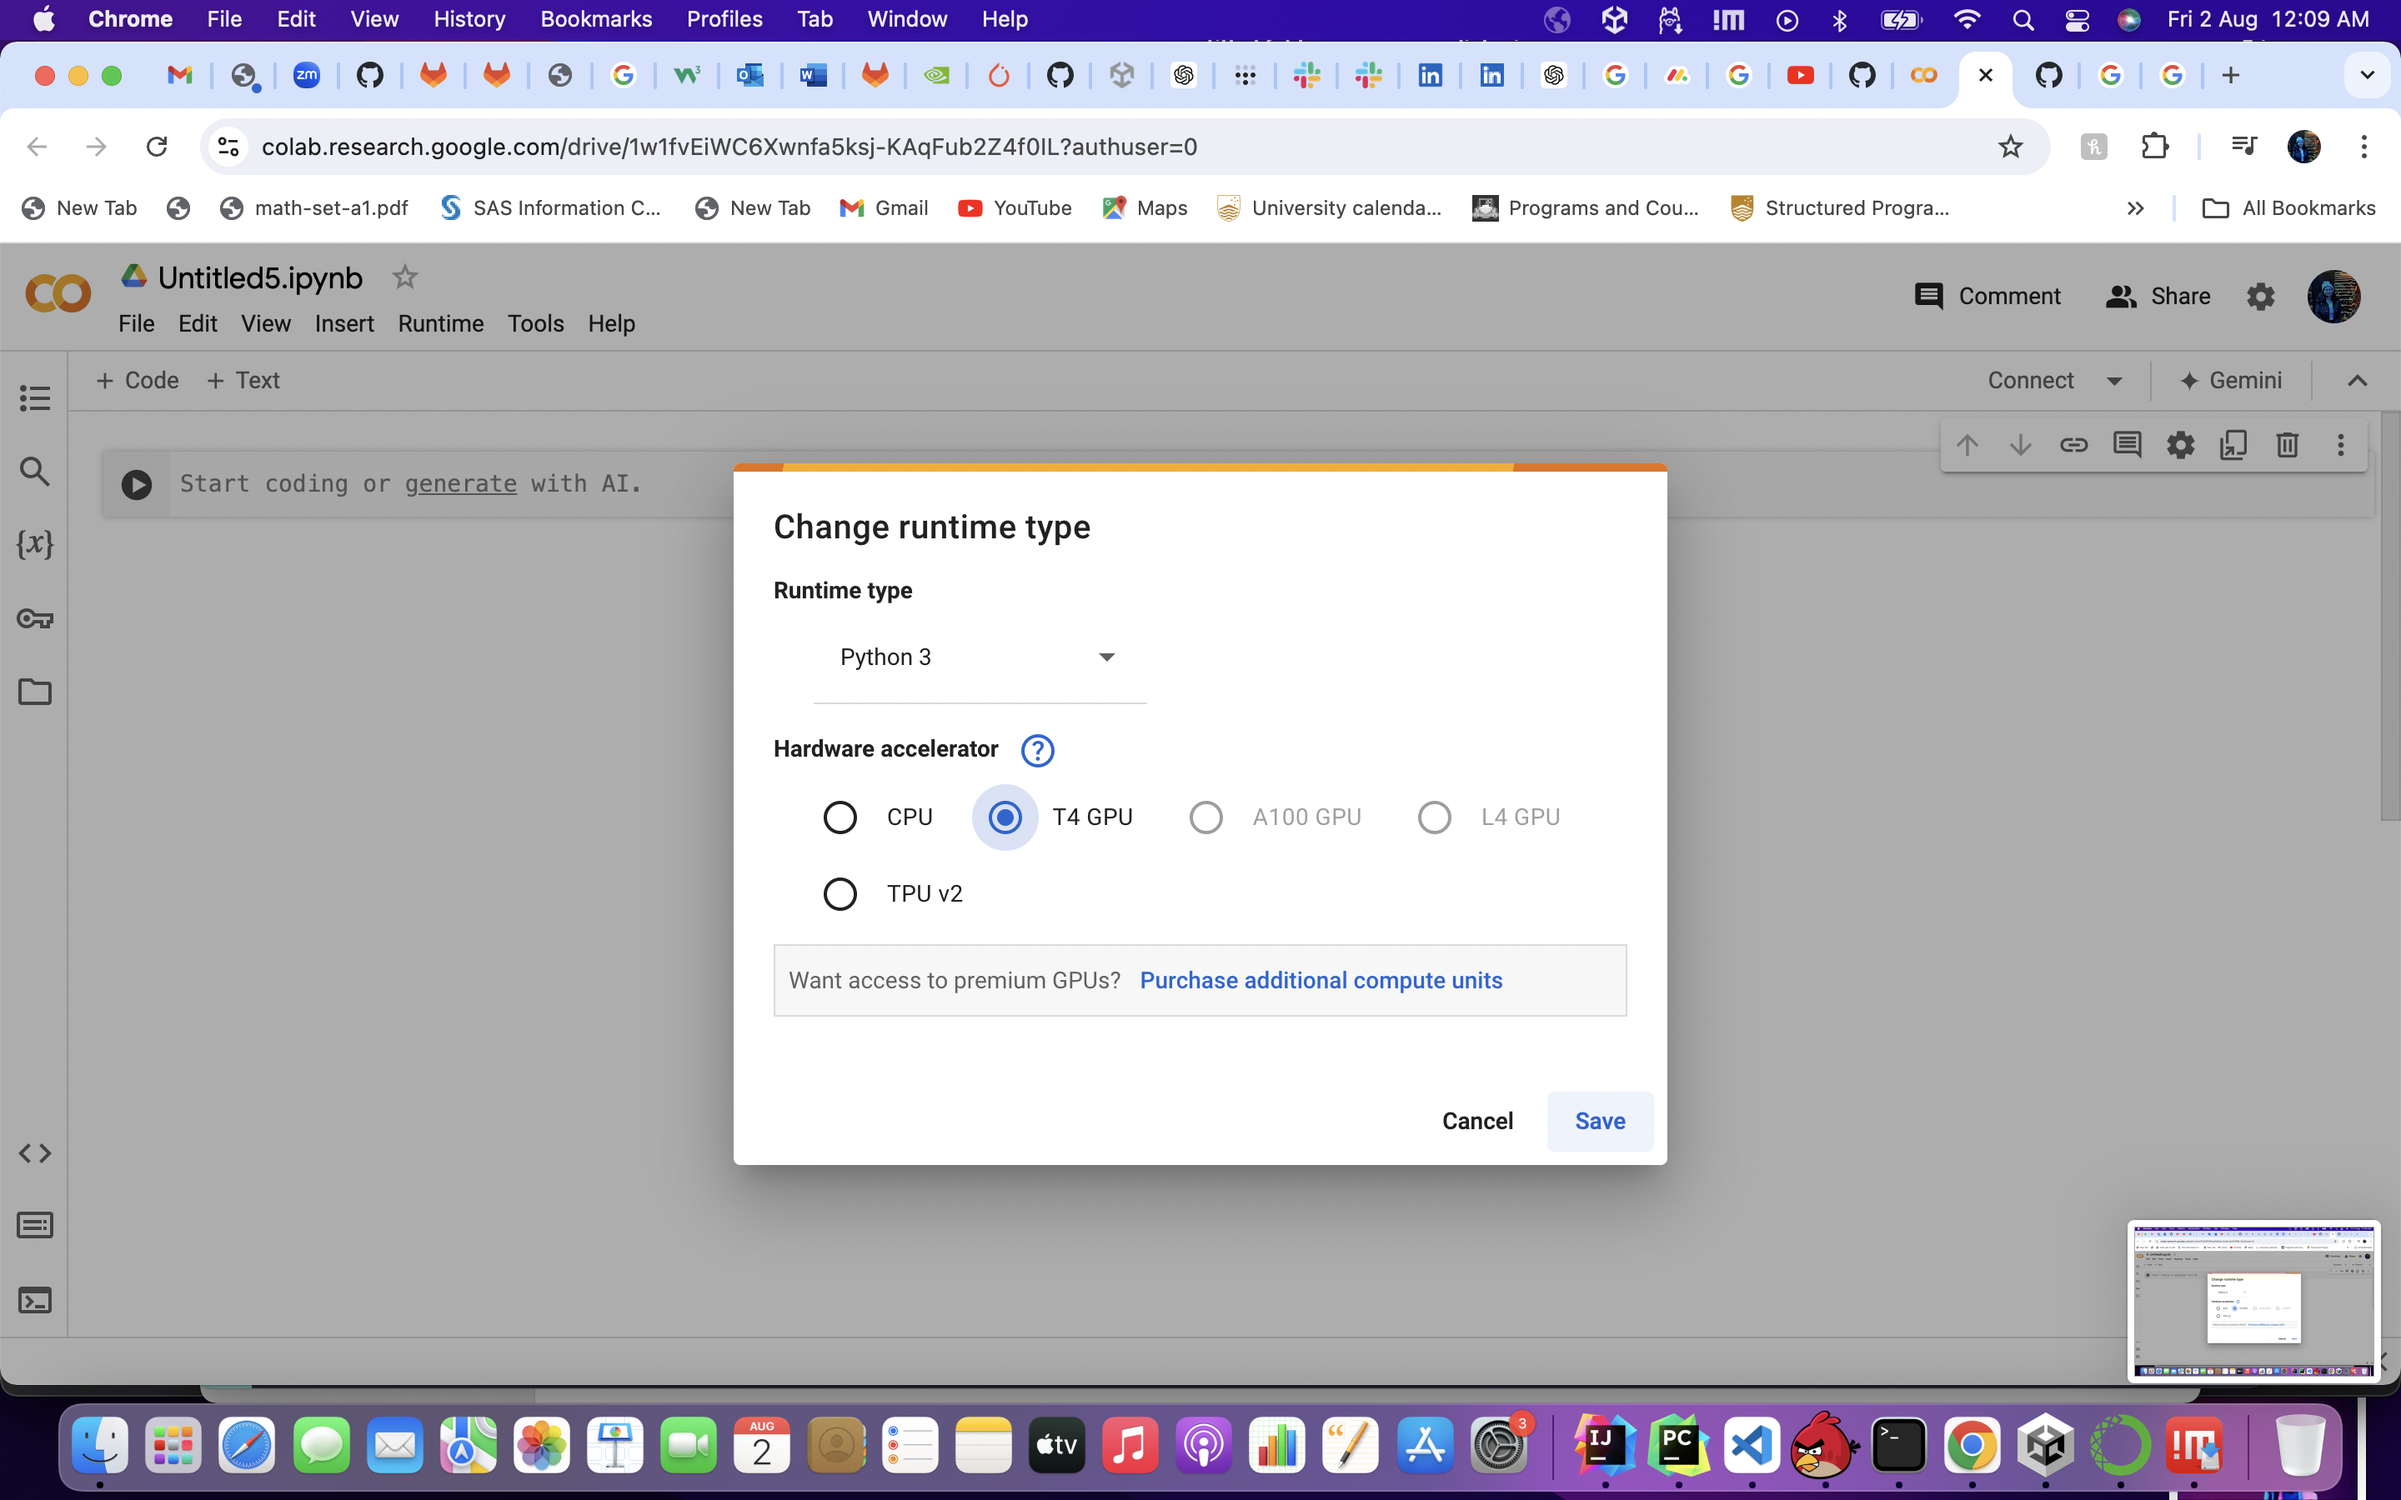
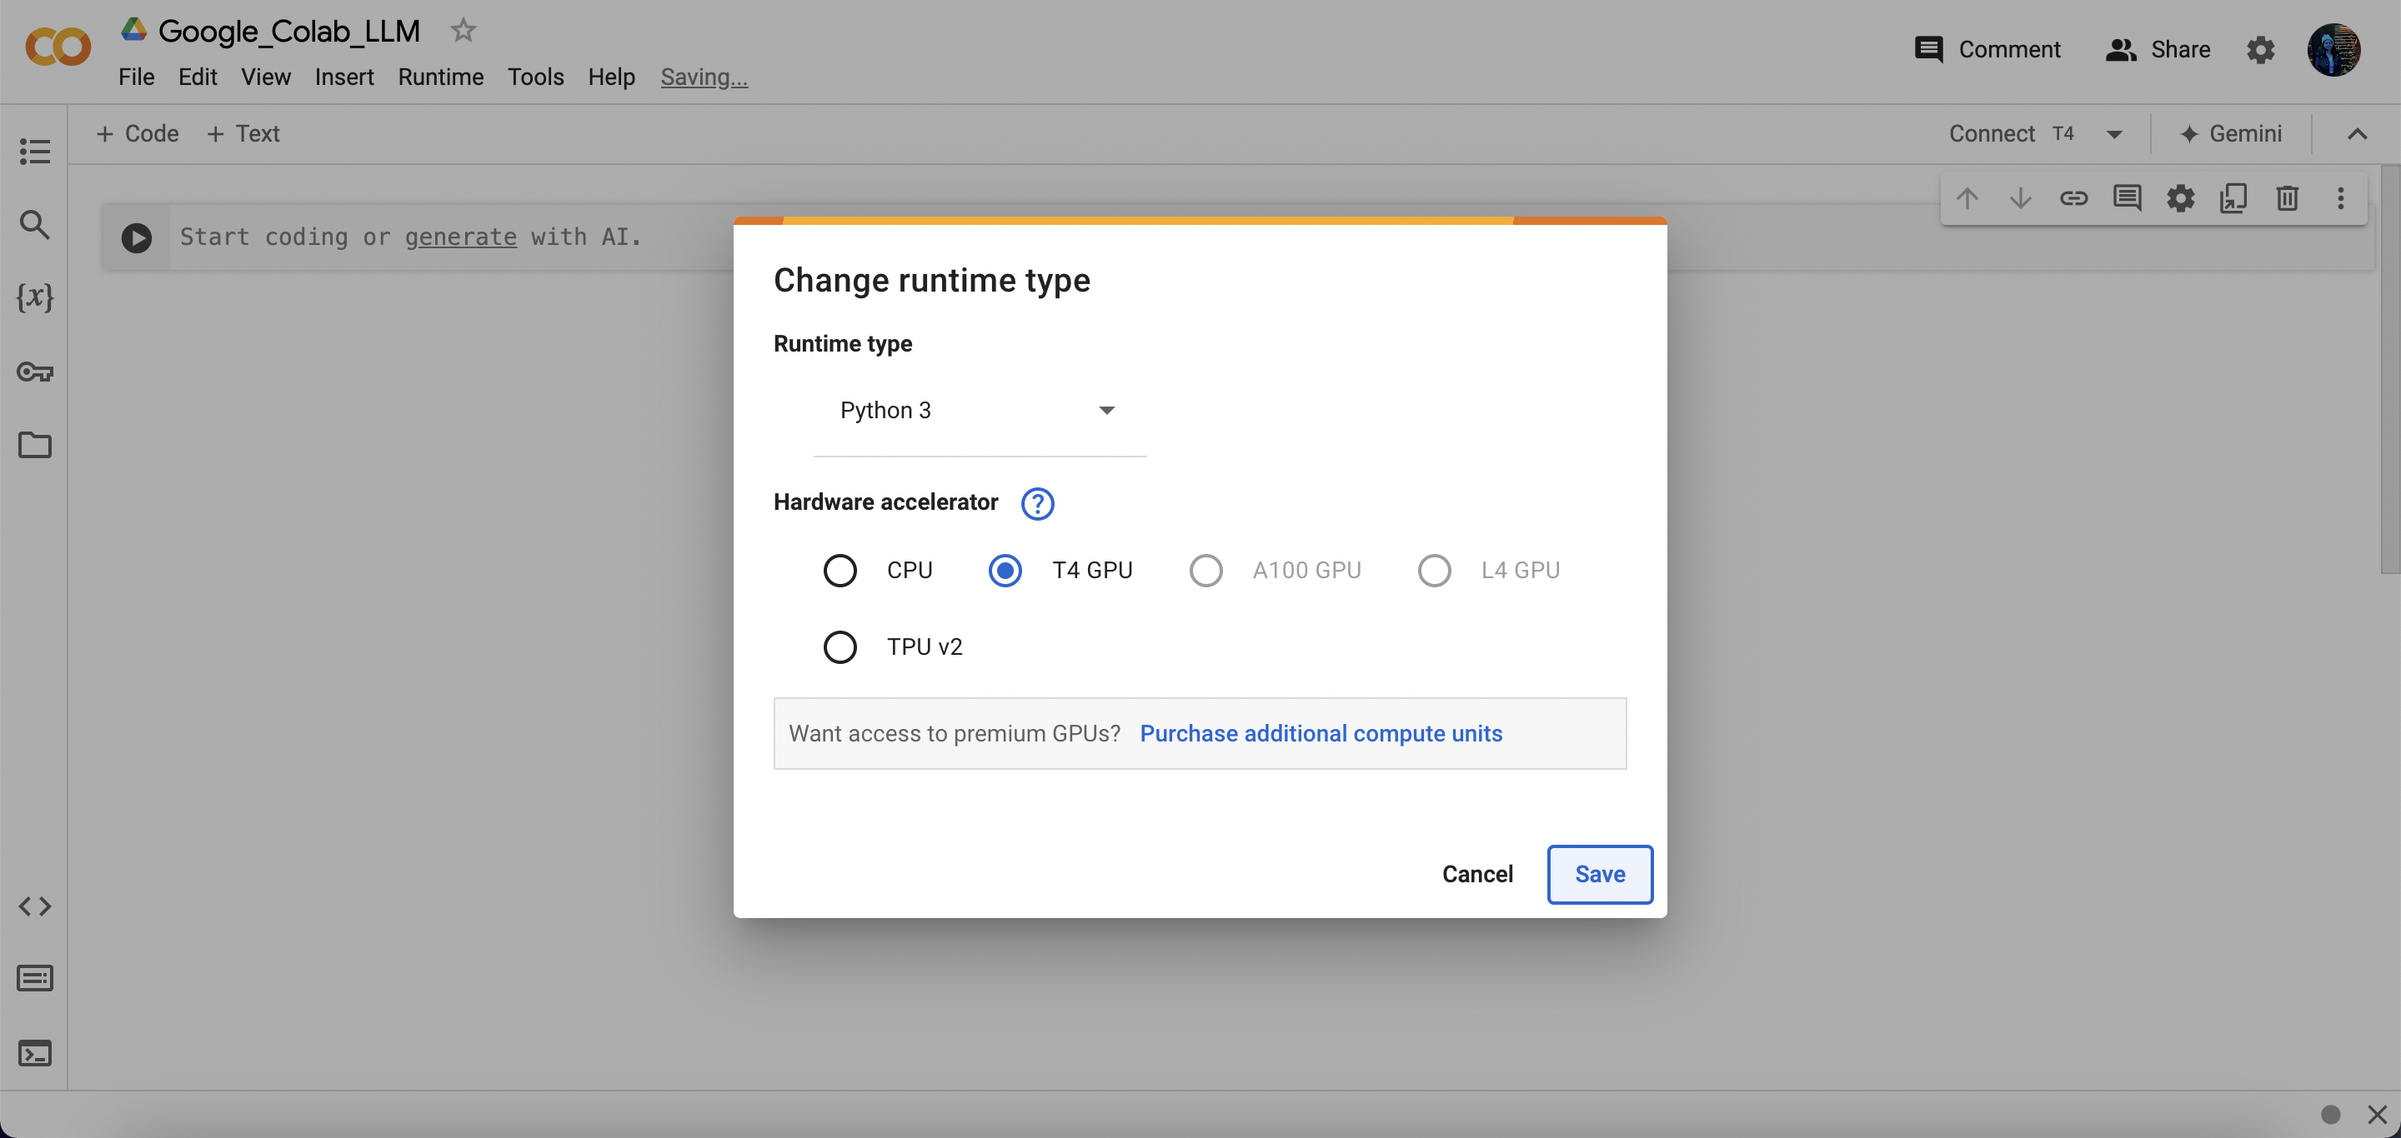
Google Colab to run LLM Models

diff --git a/tools/Week 2/Google Colab to run LLM Models.md b/tools/Week 2/Google Colab to run LLM Models.md
@@ -1,4 +1,4 @@
-# Google Colab to run LLM Models remotely
+# Google Colab to run LLM Models
 
 ![](https://cdn.jsdelivr.net/gh/data-community-of-practice/AI-Graph-Obsidian/img/Google_Colab.png)
 <div align="center"><small>Created using runwayml</small></div>
@@ -40,7 +40,7 @@ Select GPU under Hardware accelerator.
 ![](https://cdn.jsdelivr.net/gh/data-community-of-practice/AI-Graph-Obsidian/img/GPU_Selection.png)
 
 <div align="center"><small>Created from Google Colab Jupyter Notebook by Tohfa Siddika Barbhuiya</small></div>
-
+Then click on Connect
 
 ### 2.3 Installing Required Libraries
 
@@ -130,7 +130,7 @@ Again you get surprising output from the response.
 Also, you can connect to Ollama remotely through Google Colab as well.
 
 ## 6. Conclusion
-Google Colab is a powerful, accessible platform that levels the playing field for working with large language models. By providing free GPU access and a user-friendly interface, it allows individuals, small teams, and students to harness the power of LLMs without substantial financial investment. Start leveraging Google Colab today to explore and implement large language models.
+Google Colab provides a versatile and accessible platform for running large language models, removing the barriers of expensive hardware and complex setups. By offering free GPU access, seamless Google Drive integration, and a user-friendly interface, Colab empowers individuals and small teams to explore and utilize the capabilities of advanced AI models like Falcon-7B-Instruct, running Ollama remotely and run LLM Models. This democratization of technology enables more people to engage in cutting-edge AI research and applications, making powerful computational tools available to a wider audience. Start using Google Colab today to unlock the potential of LLMs in your projects.
 
 ## References
 - T. I. Institute, "Falcon-7B-Instruct," Hugging Face, 2023. [Online]. Available: https://huggingface.co/tiiuae/falcon-7b-instruct. [Accessed: 31-July-2024].
